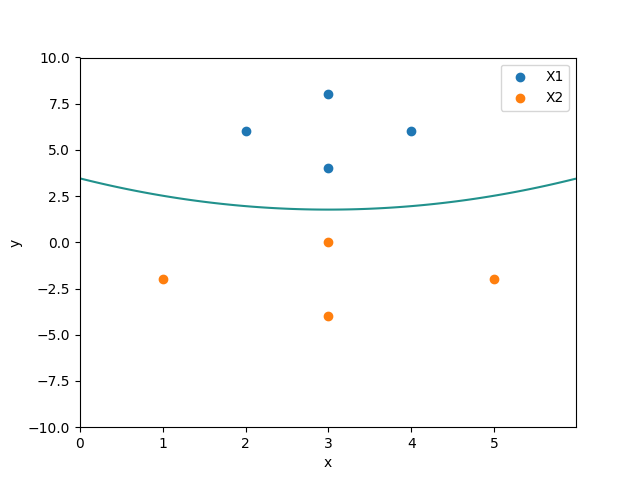
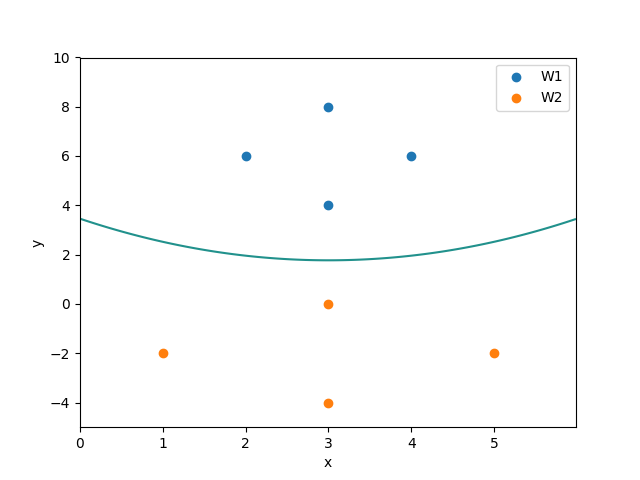
naive bayes

diff --git a/HW5/zhuwy/NaiveBayes.py b/HW5/zhuwy/NaiveBayes.py
@@ -10,12 +10,12 @@ X1 = np.array([(3,4),(3,8),(2,6),(4,6)])
 X2 = np.array([(3,0),(3,-4),(1,-2),(5,-2)])
 X = np.concatenate((X1,X2),axis=0)
 Y = np.concatenate((np.zeros(X1.shape[0]),np.ones(X2.shape[0])),axis=0)
-plt.scatter(X1[:,0],X1[:,1],label='X1')
-plt.scatter(X2[:,0],X2[:,1],label='X2')
+plt.scatter(X1[:,0],X1[:,1],label='W1')
+plt.scatter(X2[:,0],X2[:,1],label='W2')
 plt.xlabel('x')
 plt.ylabel('y')
 plt.legend()
-print(X1,X2)
+# print(X1,X2)
 
 m1 = np.mean(X1,axis=0)
 m2 = np.mean(X2,axis=0)
@@ -23,7 +23,7 @@ m1_col = m1[:,np.newaxis]
 m1_row = m1[np.newaxis,:]
 m2_col = m2[:,np.newaxis]
 m2_row = m2[np.newaxis,:]
-print(m1,m2,m1_col.shape,m1_row.shape)
+# print(m1,m2,m1_col.shape,m1_row.shape)
 
 
 
@@ -56,7 +56,7 @@ print("%f x1^2 + %f x2^2 + %f x1*x2 + %f x1 + %f x2 + %f = 0" %
 
 
 x = np.arange(0,6,0.01)
-y = np.arange(-10,10,0.01)
+y = np.arange(-5,10,0.01)
 x,y = np.meshgrid(x,y)
 # -0.562500 x1^2 + 0.000000 x2^2 + 0.000000 x1*x2 + 3.375000 x1 + 3.000000 x2 + -10.369353 = 0
 z = -0.562500*np.power(x,2) + 3.375000*x + 3*y - 10.369353
